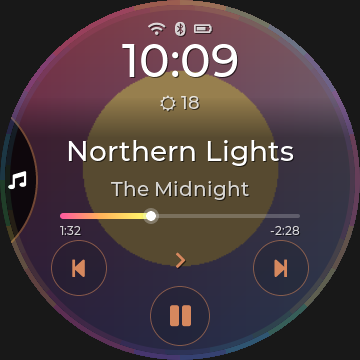
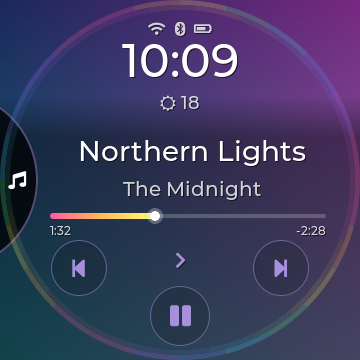
Prepare 1.4.1: version, release notes, changelog, README, website, reflash notes, thanks to ingvarr777

diff --git a/docs/index.html b/docs/index.html
@@ -4,8 +4,8 @@
 <meta charset="utf-8">
 <meta name="viewport" content="width=device-width, initial-scale=1">
 <title>diskOS Disco!</title>
-<meta name="description" content="diskOS Disco! 1.4.0 - responsive track changes, curved controls, a new Battery gauge and optional Disc Shelf. A touch interface for the round screen of the FiiO Snowsky Disc, where the album cover is the interface. Built on b0hemia's diskOS.">
-<meta property="og:title" content="diskOS Disco! 1.4.0">
+<meta name="description" content="diskOS Disco! 1.4.1 - SD updates you can keep, steadier playback, better tags and a wider Music screen. A touch interface for the round screen of the FiiO Snowsky Disc, where the album cover is the interface. Built on b0hemia's diskOS.">
+<meta property="og:title" content="diskOS Disco! 1.4.1">
 <meta property="og:description" content="The album cover is the interface. A touch UI for the FiiO Snowsky Disc, built on diskOS.">
 <meta property="og:image" content="https://zmd22.github.io/diskos-disco/disco/hero.png">
 <link rel="icon" href="disco/music.png">
@@ -179,12 +179,12 @@ footer a:hover{color:var(--text)}
   <!-- hero -->
   <div class="hero">
     <div class="wrap">
-      <span class="eyebrow"><b>1.4.0</b> · for the FiiO Snowsky Disc · firmware V2.57</span>
+      <span class="eyebrow"><b>1.4.1</b> · for the FiiO Snowsky Disc · firmware V2.57</span>
       <h1>diskOS Disco<span class="bang">!</span></h1>
       <p class="lede"><strong>The album cover is the interface.</strong> A touch UI made for the Disc's round
         360&nbsp;px screen, built on b0hemia's diskOS: the playing album fills the screen, a faint CD rainbow runs
         around the rim, and everything else sits on glass around it.</p>
-      <p class="small"><strong>New in 1.4.0:</strong> responsive track changes, curved controls, a new Battery gauge and Disc Shelf. <a href="#updates">See what's new</a>.</p>
+      <p class="small"><strong>New in 1.4.1:</strong> SD updates you can keep, steadier playback, better tags and a wider Music screen. <strong>Needs a reflash.</strong> <a href="#updates">See what's new</a>.</p>
       <div class="cta">
         <a class="btn primary" href="https://github.com/zmd22/diskos-disco/releases/latest">Download the latest release</a>
         <a class="btn ghost" href="#install">Install</a>
@@ -207,24 +207,29 @@ footer a:hover{color:var(--text)}
     <div class="wrap">
       <div class="feature reveal" style="padding-top:0">
         <div>
-          <span class="kicker">New in 1.4.0</span>
-          <h2>Less waiting.<br>More listening.</h2>
-          <p>Worker artwork delivery, a sharp-cover cache and background play history keep more work off
-            the touch loop. EQ profiles load asynchronously, and album colours arrive with the cover.
-            Curved QS and mode buttons stay clear of the navigation flyout, with consistent readable type.</p>
+          <span class="kicker">New in 1.4.1</span>
+          <h2>Updates that stick.<br>Tags that read.</h2>
+          <p>Eight careful bug reports from <a href="https://github.com/ingvarr777">ingvarr777</a> led to most of this
+            release: SD updates you can keep, no more multi-second freezes, and full tags for Opus and FLAC files with
+            large covers. Thank you.</p>
           <ul>
-            <li><b>Stay responsive:</b> isolated EQ reads and worker-provided artwork colours.</li>
-            <li><b>Follow the curve:</b> QS List and Working Modes bow toward the free edge; Left mirrors Right.</li>
-            <li><b>See your charge:</b> an open Battery gauge around the nav side, larger estimates and themed totals.</li>
-            <li><b>Make it yours:</b> Disco first in Themes; Progress Shape under Disco Options > Layout.</li>
+            <li><b>Keep your updates:</b> every SD update after the first used to roll back by itself. Fixed, with
+              safer rollback and staging.</li>
+            <li><b>Stay smooth:</b> no database waits during scans and playback starts; pop-ups close when you swipe back.</li>
+            <li><b>Read every tag:</b> big embedded covers no longer hide title and artist (rescan once); Tags keeps
+              each album's own cover.</li>
+            <li><b>Polish:</b> Quick Settings List curves like the Library, a wider Music screen, larger Library
+              text, and Volume, Screen off, Play/Pause and Next track for the navigation circle.</li>
           </ul>
-          <a class="btn ghost" href="https://github.com/zmd22/diskos-disco/blob/main/docs/releases/v1.4.0.md">Release notes</a>
+          <p class="small"><b>1.4.1 needs a reflash:</b> its update fixes live in the boot script, which an SD update
+            can't replace. Flash once with your existing update key; music, settings and keys stay.</p>
+          <a class="btn ghost" href="https://github.com/zmd22/diskos-disco/blob/main/docs/releases/v1.4.1.md">Release notes</a>
         </div>
         <div class="shots">
+          <div class="dev"><img src="disco/music.png" alt="Music with a wider title and progress line" width="360" height="360" loading="lazy"></div>
+          <div class="dev"><img src="disco/library.png" alt="Library with larger text" width="360" height="360" loading="lazy"></div>
+          <div class="dev"><img src="disco/quick-current.png" alt="Quick Settings List, curved like the Library" width="360" height="360" loading="lazy"></div>
           <div class="dev"><img src="disco/battery.png" alt="Battery gauge around the navigation side" width="360" height="360" loading="lazy"></div>
-          <div class="dev"><img src="disco/modes.png" alt="Curved Working Modes with consistent readable labels" width="360" height="360" loading="lazy"></div>
-          <div class="dev"><img src="disco/quick-current.png" alt="Curved Quick Settings list with readable labels" width="360" height="360" loading="lazy"></div>
-          <div class="dev"><img src="disco/shortcuts.png" alt="Larger Shortcuts pills" width="360" height="360" loading="lazy"></div>
         </div>
       </div>
     </div>
@@ -451,7 +456,8 @@ footer a:hover{color:var(--text)}
           <h4>Download</h4>
           <p>Get the <a href="https://github.com/zmd22/diskos-disco/releases/latest">latest release</a> or clone the repository
             for the installer and signing tools. The repository includes the ready-built interface as
-            <code>payload/mq_ui</code>. Already installed with an update key? Skip flashing and use the SD steps below.</p>
+            <code>payload/mq_ui</code>. Already installed with an update key? For 1.4.1, flash once more with that same key
+            (its boot-script fixes need it); later updates use the SD steps below.</p>
 <pre>git clone https://github.com/zmd22/diskos-disco.git
 cd diskos-disco
 ./install.sh                     <span class="c"># first time only: host setup</span></pre>
@@ -484,7 +490,7 @@ cp diskos-keys/diskos-root.pub.pem payload/</pre>
           <p style="margin-top:14px">Expect <code>mq_ui: OK</code>. From the repository root, sign with the keys
             matching the public root key already installed on your Disc:</p>
 <pre>sh ui/tools/owner-keys/diskos-sign.sh \
-  /path/to/mq_ui 1.4.0 \
+  /path/to/mq_ui 1.4.1 \
   /absolute/path/to/your/diskos-keys ./diskos-update</pre>
           <p style="margin-top:14px">The output contains six files: <code>mq_ui</code>, <code>update.manifest</code>,
             <code>update.manifest.sig</code>, <code>leafpub.pem</code>, <code>keyauthz</code> and <code>keyauthz.sig</code>.
@@ -501,7 +507,7 @@ cp diskos-keys/diskos-root.pub.pem payload/</pre>
         </div>
         <div class="step">
           <h4>Test and keep the trial</h4>
-          <p>Check <b>Settings › System › About</b> for the new version (Disco! 1.4.0). Keep the trial running for
+          <p>Check <b>Settings › System › About</b> for the new version (Disco! 1.4.1). Keep the trial running for
             at least three minutes and test playback. A confirmed playback start with running audio can
             accept it automatically after the minimum time; otherwise choose <b>Keep</b> when asked.
             Choose <b>Go back</b> and restart to revert.</p>
@@ -523,7 +529,8 @@ cp diskos-keys/diskos-root.pub.pem payload/</pre>
     <div>
       <a class="logo" href="#top" style="display:flex;color:var(--text)"><span class="disc" aria-hidden="true"></span>diskOS Disco!</a>
       <p style="margin:12px 0 0;max-width:420px">Built on <a href="https://github.com/b0hemia/diskos" style="display:inline;color:var(--text)">diskOS</a>
-        by b0hemia: the installer, boot chain, signed updates, player and the UI this grew from. Thank you.
+        by b0hemia: the installer, boot chain, signed updates, player and the UI this grew from. Thank you, and thanks
+        to <a href="https://github.com/ingvarr777" style="display:inline;color:var(--text)">ingvarr777</a> for Opus support and the reports behind 1.4.1.
         Not affiliated with FiiO, Snowsky or Ingenic. UI under GPL-3.0-or-later, installer and docs under MIT.</p>
     </div>
     <div>

diff --git a/ui/version.h b/ui/version.h
@@ -5,5 +5,5 @@
 /* The diskOS release this UI belongs to (shown in Settings > About). Bump when a release is cut. */
 #define DISKOS_VERSION "1.2.4"            /* internal only (the hidden online-update path compares it); never shown to users */
 #define DISCO_NAME     "diskOS Disco!"
-#define DISCO_VERSION  "1.4.0"    /* this fork's own release, shown in Settings > About */
+#define DISCO_VERSION  "1.4.1"    /* this fork's own release, shown in Settings > About */
 #endif

diff --git a/handoff.md b/handoff.md
@@ -1,25 +1,36 @@
-# diskOS Disco handoff - replacement 1.4.0 (2026-10-12)
+# diskOS Disco handoff - 1.4.1 (2026-10-12)
 
-Source baseline: origin/dev c7545b2 (polish8), plus recovered polish9, restored Battery layout, standalone Disc Shelf 1.0.4, approved list changes and the three stability fixes. The original unpublished 1.4.0 bundle is superseded; do not merge or tag it. The release tag v1.4.0 points to the replacement bundle's final payload commit. No remote push performed.
+Baseline: 1.4.0 (tag v1.4.0, owner device-tested) + docs cleanup 2997e14. 1.4.1 = fixes for GitHub issues #1-#8
+(reporter ingvarr777) + UI polish, built with the GCC 11.2 MIPS toolchain. Release notes: docs/releases/v1.4.1.md.
 
 ## Working agreement
 
-Owner tests on Snowsky Disc V2.57, 360x360, X2000 MIPS32r2 FP64 NaN2008. Provide native LVGL previews before layout approval, then a complete compiled mq_ui and Git bundle. Owner publishes dev/main/tags. Update todo.md. Device SSH root@192.168.178.63; no adb or scp. Install UI only by signed SD update; keep the fail-closed launch verification and rollback.
+Owner tests on Snowsky Disc V2.57 (360x360, X2000 MIPS32r2 FP64 NaN2008). Native LVGL previews before layout
+approval, then a compiled mq_ui and a Git bundle. Owner pushes main/dev and tags. SSH root@192.168.178.63, no adb/scp.
+Install UI by signed SD update; keep fail-closed launch verification and rollback.
 
-## Changes
+## 1.4.1 specifics
 
-Read docs/releases/v1.4.0.md for the exact release scope and validation. EQ profile reads are asynchronous, isolated and bounded; both the profile and editor use ui/eqprofile.c. Worker artwork results carry RGB, so ui.c no longer reads SQLite for album colours. Under low RAM, pixel preparation falls back to proven static-buffer loading. Stale/no-track results are released early. QS and mode controls use ui_on's swipe guard.
+- **Needs a reflash**: payload/S97diskos_install changed (#7: first update after a fresh flash, boot-count write
+  failure rolls back, transient verify failures keep builds (ota_bundle_ok returns 2), log cap, stale mq_ui.rejected
+  removed before install). S97 is only installed by flashing.
+- mq_ui: run record read as 1024 bytes (#8), rejected-build refusal at staging (OTA_E_REJECTED), queue_tick cached
+  ID on a 50 ms read-only connection (#1), LVGL assert -> abort, memory-aware decode budget (#2), popups closed on
+  screen change (#6), rename/move carry MY_LOVE/PLAY_STATS/BOOK_PROGRESS/SONG paths (#5), per-album cover reuse and
+  embedded synced lyrics (#4), streamed Ogg/FLAC comments (#3).
+- UI: QS "List" (was Current) with Library curve; wider Music title/progress (UL 34..310); Library ROW_H 52 and fonts
+  +2 px per Font Size (s_font22 added to the user-font chain); nav Double tap/Hold under Disco Layout with Volume,
+  Screen off, Play/Pause, Next (cfg disco_nav_v=2 migrates old "Nothing" 6 -> 10); restart notice before re-exec;
+  Shortcuts swipe hint (hint_shortcuts); "Number Before Title".
+- payload/diskos-artdec and diskos-bootprobe unchanged from 1.4.0 (the standalone decoder's behaviour is the same).
+- Not done on purpose: separate DB connections for worker threads (#1 item 3), 07:00/20:00 appearance re-exec
+  (#2 item 3), queueing songs with paths over 255 bytes (#5).
 
-Approved layouts: curved free-edge QS List/Modes, consistent 22px text, 4px gutter beyond Back's 64px strip; mirror for Left. Disco first in picker; Progress Shape under Layout. Battery open gauge mirrors the nav side, centred heading, larger estimate, pill backgrounds below gauge. QS Arc and fixed radios retained.
+## Build and checks
 
-Optional apps are in apps/: Disc Shelf 1.0.4 and Album Roulette 1.3.1, with source archives under corresponding-source. Disc Shelf is owner device-tested; it is not embedded in mq_ui. Actual shelf.conf and private keys must never enter Git or packages.
-
-## Build and diagnostics
-
-Use ui/tools/build_device.py with the complete GCC11.2 toolchain, a separate cache, --jobs 1 or 2, --approved and a new output directory. New source files must be git-visible. Preserve mq_ui.debug for address symbolication. Metadata payload/mq_ui.build.json binds binary identity to source. Host: make -C ui CROSS= host-render. Gates: check-theme and checkpunct. Focused tests: eq_profile_async_test.py, art_responsiveness_test.py, music_responsiveness_ui_test.py, stability_test.py, art_transition_test.py; host REVIEW_QS / REVIEW_MODES / REVIEW_DISCO_SETTINGS.
-
-The owner reported freezes and automatic UI restarts into stock in the first 1.4.0 candidate. Four-second SQLite waits were reproduced, but fatal crash/OOM cause remains unconfirmed. Get persistent /usr/data/diskos_boot.log and /usr/data/diskos_install.log after recovery. Do not claim the crash is solved or publish a device-tested status until the owner tests this replacement.
-
-## Next
-
-Owner signs replacement with fresh epoch, tests on Disc, then pushes dev. After acceptance publish main and v1.4.0; the tag workflow packages payload and optional apps, and main updates the website. Windows installer stays shelved in todo-ideas.md.
+ui/tools/build_device.py --toolchain /opt/mipsel-n2008-musl-cross --cache <dir> --out <new dir> --approved.
+Toolchain: musl-cross-make 227df8b + ui/toolchain/mcm-config.mak; sources from archive.ubuntu.com (gcc-11 orig
+contains gcc-11.2.0.tar.xz; binutils/gmp repacked, gmp with a stub doc/Makefile.in), Linux headers cloned from
+sabotage-linux/kernel-headers v4.19.88-2, config.sub from /usr/share/misc; rehash changed tarballs in hashes/.
+Host: make -C ui CROSS= host-render; REVIEW_QS / REVIEW_NAV / REVIEW_HINTS / REVIEW_DISCO_SETTINGS (both sides);
+gates check-theme, checkpunct. Known: render_test immersive (find_sharp_image) fails on the host, as before.

diff --git a/README.md b/README.md
@@ -67,25 +67,32 @@ replaces only what you see and touch.
 </tr>
 </table>
 
-## New in 1.4.0
+## New in 1.4.1
 
-- **Quicker track changes.** Covers, album colours and the equalizer load in the background, so the screen
-  doesn't stall when you skip.
-- **Quick Settings your way.** Choose **List** (curved rows, like the Library) or the eight-button **Arc**, and pick and order the
-  buttons (Disco Options › Quick Settings).
-- **Safer touches.** A swipe that starts on a button no longer presses it, and buttons stay clear of the back-swipe edge.
-- **Navigation circle shortcuts.** Double-tap or hold the open circle for an action you choose (Disco Options › Layout).
-- **First-use hints** for new users (System › Help), and a new **Battery** gauge.
-- **Disc Shelf**, a new optional app: browse your Navidrome server and download original files to the card.
+> [!IMPORTANT]
+> **1.4.1 needs a reflash.** Its update-safety fixes are in the boot script, which only the installer can
+> replace. Flash once with your existing `--ota-key` ([Install](#install)); your music, settings and keys stay.
+
+- **SD updates you can keep.** Every update after the first one used to roll back by itself; fixed, along with
+  several rarer update and rollback problems.
+- **Steadier.** No more multi-second freezes during library scans or when playback starts; pop-ups close when you
+  swipe back.
+- **Better tags.** Opus/Ogg and FLAC files with large covers show their real title and artist (rescan once);
+  Tags no longer reuses one cover across albums or rewrites lyrics on every play.
+- **Safer file actions.** Rename and move keep favourites, play counts and bookmarks.
+- **Polish.** Quick Settings **List** curves like the Library, a wider Music screen, larger Library text,
+  and Volume, Screen off, Play/Pause and Next track for the navigation circle's Double tap and Hold.
+
+Thanks to **[ingvarr777](https://github.com/ingvarr777)** for the detailed reports behind most of these fixes.
 
 <table><tr>
 <td align="center" width="25%"><img src="docs/disco/quick-current.png" width="190" alt="Quick Settings, List"><br><sub><b>Quick Settings</b>: List</sub></td>
-<td align="center" width="25%"><img src="docs/disco/battery.png" width="190" alt="Battery"><br><sub><b>Battery</b> gauge</sub></td>
-<td align="center" width="25%"><img src="docs/disco/song-info.png" width="190" alt="Song Info album back sleeve"><br><sub><b>Song Info</b>: the album back sleeve</sub></td>
-<td align="center" width="25%"><img src="docs/disco/left-nav.png" width="190" alt="Left-handed mode"><br><sub><b>Left-handed mode</b></sub></td>
+<td align="center" width="25%"><img src="docs/disco/music.png" width="190" alt="Wider Music screen"><br><sub><b>Music</b>: wider title and progress</sub></td>
+<td align="center" width="25%"><img src="docs/disco/library.png" width="190" alt="Library"><br><sub><b>Library</b>: larger text</sub></td>
+<td align="center" width="25%"><img src="docs/disco/battery.png" width="190" alt="Battery"><br><sub><b>Battery</b> gauge (1.4.0)</sub></td>
 </tr></table>
 
-All the details: [release notes](docs/releases/v1.4.0.md) · [changelog](CHANGELOG.md).
+All the details: [1.4.1 release notes](docs/releases/v1.4.1.md) · [1.4.0](docs/releases/v1.4.0.md) · [changelog](CHANGELOG.md).
 
 ## Highlights
 
@@ -173,7 +180,7 @@ Download `mq_ui` from the [latest release](https://github.com/zmd22/diskos-disco
 your keys:
 
 ```sh
-sh ui/tools/owner-keys/diskos-sign.sh path/to/mq_ui 1.4.0      # -> ./diskos-update/ (the label is free text)
+sh ui/tools/owner-keys/diskos-sign.sh path/to/mq_ui 1.4.1      # -> ./diskos-update/ (the label is free text)
 ```
 
 Reuse the signing keys whose root public key was installed on this Disc. Copy the complete
@@ -226,7 +233,8 @@ Stock is never far:
   the boot and recovery chain, the signed-update design and the whole UI this project grew from. None of this
   exists without that work. If you enjoy diskOS, [support b0hemia on Ko-fi](https://ko-fi.com/b0hemia).
 - **diskOS contributors**: everyone who reported, tested and patched upstream.
-- **[ingvarr777](https://github.com/ingvarr777)**, for Ogg Opus support (diskOS PR #19).
+- **[ingvarr777](https://github.com/ingvarr777)**, for Ogg Opus support (diskOS PR #19) and the careful bug reports
+  behind 1.4.1 (issues #1–#8).
 - **[LVGL](https://lvgl.io)** for the graphics library, **SQLite**, **jsmn**, **musl**,
   **[musl-cross-make](https://github.com/richfelker/musl-cross-make)**, the **Inter**, **Montserrat** and
   **Font Awesome** fonts, and every project listed in [NOTICE.md](NOTICE.md).

diff --git a/docs/releases/v1.4.1.md b/docs/releases/v1.4.1.md
@@ -1,0 +1,62 @@
+# diskOS Disco! 1.4.1
+
+Fixes for eight problems reported by **[ingvarr777](https://github.com/ingvarr777)**, plus a round of interface
+polish. Thank you, ingvarr777, for the careful, well-documented reports
+([#1](https://github.com/zmd22/diskos-disco/issues/1)–[#8](https://github.com/zmd22/diskos-disco/issues/8)).
+
+> [!IMPORTANT]
+> **1.4.1 needs a reflash.** Some fixes are in the boot script that checks and installs SD updates. That
+> script lives in the flashed system, so an SD update alone can't deliver it. Flash once with the installer
+> (keep your existing `--ota-key`; see [Install](../../README.md#install)), then use SD updates as before.
+> Your music, settings and keys stay. An SD update to 1.4.1 without reflashing still brings the interface
+> fixes, but not the update-safety fixes listed under "Updates".
+
+## Updates (SD card and boot)
+
+- **Every SD update after the first one rolled back.** The interface couldn't read the boot record once a kept
+  build existed, so it never confirmed a trial. Fixed (#8).
+- **The first SD update after a fresh flash was thrown away.** The flashed build is now recorded on the first
+  boot (#7, reflash).
+- **A trial that couldn't count its boots (full data partition) never rolled back.** It now rolls back (#7, reflash).
+- **A build that couldn't be checked for a moment was deleted as if tampered with.** It's now kept and checked
+  again next boot (#7, reflash).
+- **A build that rolled back before is refused when you stage it again**, with a clear message instead of a silent
+  drop (#7). The install log is capped, and a leftover rejected copy no longer blocks reinstalling.
+
+## Stability
+
+- **Freezes during scans and when playback starts.** The screen no longer asks the database about the playing
+  song on every frame, and never waits on it for more than 50 ms (#1).
+- **Silent hangs and kills.** An internal graphics error now stops the interface with a crash line in the log
+  instead of freezing it; cover decoding only uses the memory the Disc can spare (#2).
+- **Pop-ups no longer outlive a back swipe.** The hold menu, the file confirm and folder picker, the EQ number pad
+  and "Add lyrics & artwork" close when the screen changes, so they can't act on the old item (#6).
+
+## Library and files
+
+- **Opus/Ogg and FLAC files with large embedded covers** showed the file name and "Unknown artist". Their tags are
+  now read in full, without loading the cover. Rescan to fix existing entries (#3).
+- **Tags: one cover written into every album.** A fetched cover is now used only within its own album and folder;
+  same-named albums by different artists get their own (#4).
+- **Tags: lyrics re-written on every play.** An unsynced .lrc beside a song no longer hides its own synced
+  lyrics (#4).
+- **Rename and move keep favourites, play counts and audiobook bookmarks**, long names are no longer cut, and a
+  folder can't be replaced by something inside it (#5).
+
+## Interface
+
+- **Quick Settings: List and Arc.** "Current" is now called **List**, and its rows curve and sit like the
+  Library's, stopping short of the music disc.
+- **Wider Music screen.** The title, artist and progress line use more of the screen.
+- **Library lists:** rows packed a little tighter, text one size larger at every Font Size.
+- **Navigation circle gestures** moved to Disco Options › Layout, with four new choices: Volume, Screen off,
+  Play/Pause and Next track.
+- **"Restarting the screen – your music keeps playing"** shows before every setting that restarts the screen.
+- A one-time tip for the **Shortcuts swipe**, and the Music option "Track Number" is now **Number Before Title**.
+
+## Install
+
+- **Reflash** with the installer: `payload/mq_ui` and the updated boot script are in the repository and the
+  release's source download. Use your existing update key (`--ota-key`) so SD updates keep working.
+- Already reflashed? Later builds install from the SD card as usual ([guide](../UPDATING.md)).
+- Disc Shelf 1.0.4 and Album Roulette 1.3.1 are unchanged and installed separately.

diff --git a/CHANGELOG.md b/CHANGELOG.md
@@ -6,6 +6,29 @@ Entries follow the Keep a Changelog format, with Added, Changed, and Fixed categ
 diskOS remains beta software; version numbers do not imply broad hardware or feature validation.
 
 
+## [1.4.1] - 2026-10-12
+
+**Needs a reflash** (boot-script fixes). Bug reports by [ingvarr777](https://github.com/ingvarr777), issues #1-#8: thank you.
+
+- Fixed: SD updates after the first one rolled back (the boot record outgrew the UI's 256-byte read) (#8).
+- Fixed (boot script): first SD update after a fresh flash dropped; a trial whose boot count can't be saved now rolls
+  back; a build that can't be checked for a moment is kept, not deleted; capped install log; a stale rejected copy
+  no longer blocks reinstalling (#7).
+- Re-staging a build that was rolled back before is refused with a message (#7). Docs: run-file path, hard-link warning.
+- Fixed: UI freezes in scans and playback starts - the playing song's ID is cached per track and looked up on a short-wait
+  read-only connection (#1).
+- LVGL asserts abort with a crash log line instead of spinning; cover decoding budgets to available memory (#2).
+- Hold menu, file confirm/picker, EQ number pad and "Add lyrics & artwork" close on every screen change; settings rows,
+  mode screen and play-mode index hardened (#6).
+- Rename/move carry favourites, play stats and book progress; long names not truncated; long playing paths guarded;
+  replacing a folder's ancestor refused (#5).
+- Tags: covers reused only within one album folder; unsynced .lrc no longer hides embedded synced lyrics (#4).
+- Ogg/Opus and FLAC comments streamed (large covers no longer break tags); oversized ID3 flagged as a read error (#3).
+- Quick Settings: Current renamed List; List rows curve and sit like the Library's.
+- Music: wider title, artist and progress line. Library: rows 52 px, text one size larger at every Font Size.
+- Navigation circle Double tap / Hold moved to Disco Options > Layout; new Volume, Screen off, Play/Pause, Next track.
+- One "Restarting the screen - your music keeps playing" notice; Shortcuts swipe tip; "Number Before Title".
+
 ## [1.4.0] - 2026-10-12
 
 - Quick Settings (Current style) and Working Modes follow the free edge of the screen, with one font size per list; Left mirrors Right.

diff --git a/docs/UPDATING.md b/docs/UPDATING.md
@@ -6,6 +6,10 @@ Flash once with your own public update key. After that, new **interface builds**
 reflash, no SSH. The Disc checks the signatures, runs the new build as a trial, and goes back to the previous
 build if the trial fails.
 
+> [!IMPORTANT]
+> **Coming from 1.4.0 or older? Reflash once for 1.4.1.** Its update fixes are in the boot script, which an SD
+> update can't replace. Flash with the same `--ota-key` as before (step 1); after that, SD updates work as below.
+
 An SD update changes `mq_ui` (the interface) only. It doesn't touch the stock player, the boot scripts or the
 optional apps ([Album Roulette](ALBUM_ROULETTE_INSTALL.md), [Disc Shelf](DISC_SHELF_INSTALL.md)). A downloaded
 `mq_ui` is **not** signed with your keys yet; you sign it yourself (step 3).
@@ -59,7 +63,7 @@ use the desktop `host-render` program on the Disc.
 From the repository root, with your keys in `./diskos-keys`:
 
 ```sh
-sh ui/tools/owner-keys/diskos-sign.sh path/to/mq_ui 1.4.0
+sh ui/tools/owner-keys/diskos-sign.sh path/to/mq_ui 1.4.1
 ```
 
 With keys elsewhere: `diskos-sign.sh <binary> [label] [keys-folder] [output-folder]`. The label (up to 32 letters,

diff --git a/todo.md b/todo.md
@@ -7,6 +7,13 @@ Shelved proposals and their restart notes: `todo-ideas.md` (Windows installer).
 The owner authorized this batch before uploading dev. First-use hints are
 implemented in candidate 1.3.2-polish2; device acceptance remains pending.
 
+## 1.4.1 (2026-10-12)
+
+- [x] Issues #1-#8 fixed (see handoff.md), contributor thanked in README, release notes, changelog, website.
+- [x] QS List, wider Music, Library rows/fonts, nav gestures + 4 actions, restart notice, Shortcuts tip.
+- [ ] Owner reflashes (S97 changed), tests updates/trial keep, scans, Opus tags (rescan), rename/move.
+- [ ] Owner pushes main + dev + tag v1.4.1; close issues #1-#8 with a thank-you comment.
+
 ## First-use hints: implemented in 1.3.2-polish2
 
 - [x] Restore 1.3.1 baseline and owner-supplied 1.3.2-polish1 gesture patch.

diff --git a/apps/disc-shelf/README.md b/apps/disc-shelf/README.md
@@ -1,5 +1,5 @@
 # Disc Shelf 1.0.4
 
-Standalone Navidrome browser and original-file downloader, included as an optional add-in with diskOS Disco 1.4.0. This is the exact binary previously tested by the owner. It is not embedded in mq_ui.
+Standalone Navidrome browser and original-file downloader, included as an optional add-in with diskOS Disco. This is the exact binary previously tested by the owner. It is not embedded in mq_ui.
 
 See [installation and configuration](../../docs/DISC_SHELF_INSTALL.md). The example configuration contains placeholders; your existing shelf.conf must be preserved and kept private. Open the app from All apps or add it to Shortcuts. The included corresponding source is disc-shelf-1.0.4-source.tar.gz.

diff --git a/docs/HOWTO.md b/docs/HOWTO.md
@@ -146,7 +146,7 @@ Rescan Library). A small dot runs around the rim while it scans.
 **Update from the SD card.**
 
 1. On your computer, make a signed update with the signing script:
-   `sh ui/tools/owner-keys/diskos-sign.sh path/to/mq_ui 1.4.0` (the last part is just a label for the package).
+   `sh ui/tools/owner-keys/diskos-sign.sh path/to/mq_ui 1.4.1` (the last part is just a label for the package).
 2. Copy the resulting `diskos-update` folder to the root of the SD card.
 3. On the Disc: Settings > System > Maintenance > Update from SD Card > Update, then restart.
 4. The new version starts as a **trial**. Play some music (or tap **Keep** when asked) to keep it. If it

diff --git a/RELEASE_INSTALL.md b/RELEASE_INSTALL.md
@@ -1,7 +1,10 @@
 # Install diskOS Disco!
 
-`mq_ui` is the interface. Sign it with your own keys and install it from the SD card: see
-[docs/UPDATING.md](docs/UPDATING.md). What's new is in [RELEASE-NOTES.md](RELEASE-NOTES.md).
+**1.4.1 needs a reflash** (its boot-script fixes can't arrive by SD card): flash once with the installer from the
+repository or source download, using your existing update key. See [RELEASE-NOTES.md](RELEASE-NOTES.md).
+
+After that, `mq_ui` is the interface: sign it with your own keys and install it from the SD card
+([docs/UPDATING.md](docs/UPDATING.md)).
 
 Optional apps, installed separately:
 

diff --git a/apps/album-roulette/README.md b/apps/album-roulette/README.md
@@ -1,6 +1,6 @@
 # Album Roulette 1.3.1
 
-Standalone user app, shipped alongside Disco 1.4.0. It is not linked into mq_ui.
+Standalone user app, shipped alongside Disco. It is not linked into mq_ui.
 Copy app and app.conf to /usr/data/apps/album-roulette; app must be executable.
 Close Roulette before replacing it. Keep an existing app.conf if customized.
 See docs/ALBUM_ROULETTE_INSTALL.md for commands.
